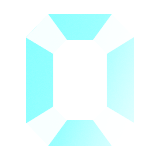
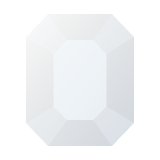
Đổi ảnh trong Subscription, sửa bug của Notification

Changed region(s): [[0.3125, 0.2188, 0.8438, 0.9375], [0.1562, 0.2188, 0.3438, 0.7812], [0.3125, 0.0625, 0.6875, 0.25]]

diff --git a/lib/src/pages/notifications.dart b/lib/src/pages/notifications.dart
@@ -2,22 +2,15 @@ import 'package:YogiTech/api/notification/notification_service.dart';
 import 'package:YogiTech/services/notifi_service.dart';
 import 'package:flutter/material.dart';
 import 'package:YogiTech/src/custombar/appbar.dart';
-import 'package:YogiTech/src/widgets/switch.dart'; // Assuming this is CustomSwitch
+import 'package:YogiTech/src/widgets/switch.dart';
 import 'package:flutter_gen/gen_l10n/app_localizations.dart';
 import 'package:flutter_local_notifications/flutter_local_notifications.dart';
 import 'package:YogiTech/src/models/notification.dart' as n;
 import 'package:shared_preferences/shared_preferences.dart';
 
 class NotificationsPage extends StatefulWidget {
-  final bool streakSaverOn;
-  final bool friendAactivitiesOn;
-  final bool newEventOn;
-
   const NotificationsPage({
     super.key,
-    this.streakSaverOn = true,
-    this.friendAactivitiesOn = true,
-    this.newEventOn = true,
   });
 
   @override
@@ -25,17 +18,18 @@ class NotificationsPage extends StatefulWidget {
 }
 
 class _NotificationsPageState extends State<NotificationsPage> {
-  late bool _streakSaverOn = widget.streakSaverOn;
-  late bool _friendActivitiesOn = widget.friendAactivitiesOn;
-  late bool _newEventOn = widget.newEventOn;
+  late bool _streakSaverOn;
+  late bool _friendActivitiesOn;
+  late bool _newEventOn;
   late List<n.Notification>? _notifications;
   int currentStreak = 0;
+  late Future<void> _loadPreferencesFuture;
 
   @override
   void initState() {
-    fetchNotification();
     super.initState();
-    _loadSwitchStates(); // Load initial switch states
+    fetchNotification();
+    _loadPreferencesFuture = _loadSwitchStates(); // Load initial switch states
   }
 
   Future<void> fetchNotification() async {
@@ -49,11 +43,15 @@ class _NotificationsPageState extends State<NotificationsPage> {
     SharedPreferences prefs = await SharedPreferences.getInstance();
     setState(() {
       currentStreak = prefs.getInt('currentStreak') ?? 0;
-      _streakSaverOn = prefs.getBool('streakSaverOn') ?? widget.streakSaverOn;
-      _friendActivitiesOn =
-          prefs.getBool('friendActivitiesOn') ?? widget.friendAactivitiesOn;
-      _newEventOn = prefs.getBool('newEventOn') ?? widget.newEventOn;
+      _streakSaverOn = prefs.getBool('streakSaverOn')!;
+      _friendActivitiesOn = prefs.getBool('friendActivitiesOn')!;
+      _newEventOn = prefs.getBool('newEventOn')!;
     });
+  }
+
+  Future<void> _saveSwitchState(String key, bool value) async {
+    SharedPreferences prefs = await SharedPreferences.getInstance();
+    await prefs.setBool(key, value);
   }
 
   @override
@@ -66,51 +64,54 @@ class _NotificationsPageState extends State<NotificationsPage> {
         title: trans.notifications,
         style: widthStyle.Large,
       ),
-      body: SingleChildScrollView(
-        child: Padding(
-          padding: EdgeInsets.symmetric(horizontal: 24, vertical: 16),
-          child: Column(
-            children: [
-              CustomSwitch(
-                title: trans.streakSaver,
-                value: _streakSaverOn,
-                onChanged: (newValue) async {
-                  SharedPreferences prefs =
-                      await SharedPreferences.getInstance();
-                  await prefs.setBool('streakSaverOn', newValue);
-                  setState(() {
-                    _streakSaverOn = newValue;
-                  });
-                  _handleStreakSaverNotifications(_streakSaverOn);
-                },
+      body: FutureBuilder(
+        future: _loadPreferencesFuture,
+        builder: (context, snapshot) {
+          if (snapshot.connectionState == ConnectionState.waiting) {
+            return Center(child: CircularProgressIndicator());
+          } else {
+            return SingleChildScrollView(
+              child: Padding(
+                padding: EdgeInsets.symmetric(horizontal: 24, vertical: 16),
+                child: Column(
+                  children: [
+                    CustomSwitch(
+                      title: trans.streakSaver,
+                      value: _streakSaverOn,
+                      onChanged: (newValue) async {
+                        setState(() {
+                          _streakSaverOn = newValue;
+                        });
+                        await _saveSwitchState('streakSaverOn', newValue);
+                        _handleStreakSaverNotifications(_streakSaverOn);
+                      },
+                    ),
+                    CustomSwitch(
+                      title: trans.friendsActivities,
+                      value: _friendActivitiesOn,
+                      onChanged: (newValue) async {
+                        setState(() {
+                          _friendActivitiesOn = newValue;
+                        });
+                        await _saveSwitchState('friendActivitiesOn', newValue);
+                      },
+                    ),
+                    CustomSwitch(
+                      title: trans.newEvent,
+                      value: _newEventOn,
+                      onChanged: (newValue) async {
+                        setState(() {
+                          _newEventOn = newValue;
+                        });
+                        await _saveSwitchState('newEventOn', newValue);
+                      },
+                    ),
+                  ],
+                ),
               ),
-              CustomSwitch(
-                title: trans.friendsActivities,
-                value: _friendActivitiesOn,
-                onChanged: (newValue) async {
-                  SharedPreferences prefs =
-                      await SharedPreferences.getInstance();
-                  await prefs.setBool('friendActivitiesOn', newValue);
-                  setState(() {
-                    _friendActivitiesOn = newValue;
-                  });
-                },
-              ),
-              CustomSwitch(
-                title: trans.newEvent,
-                value: _newEventOn,
-                onChanged: (newValue) async {
-                  SharedPreferences prefs =
-                      await SharedPreferences.getInstance();
-                  await prefs.setBool('newEventOn', newValue);
-                  setState(() {
-                    _newEventOn = newValue;
-                  });
-                },
-              ),
-            ],
-          ),
-        ),
+            );
+          }
+        },
       ),
       floatingActionButtonLocation: FloatingActionButtonLocation.endFloat,
     );

diff --git a/lib/src/pages/exercise_detail.dart b/lib/src/pages/exercise_detail.dart
@@ -521,15 +521,11 @@ class _ExerciseDetailState extends State<ExerciseDetail> {
               ),
               // Nếu có parent_comment, hiển thị reply của admin bên dưới
               if (adminReply) ...[
-                const SizedBox(height: 16),
-                Container(
-                  padding: EdgeInsets.all(8),
-                  decoration: ShapeDecoration(
-                    shape: RoundedRectangleBorder(
-                      side: BorderSide(width: 1, color: stroke),
-                      borderRadius: BorderRadius.circular(8),
-                    ),
-                  ),
+                Divider(
+                  color: stroke,
+                ),
+                Padding(
+                  padding: EdgeInsets.symmetric(horizontal: 8),
                   child: Column(
                     crossAxisAlignment: CrossAxisAlignment.start,
                     children: [
